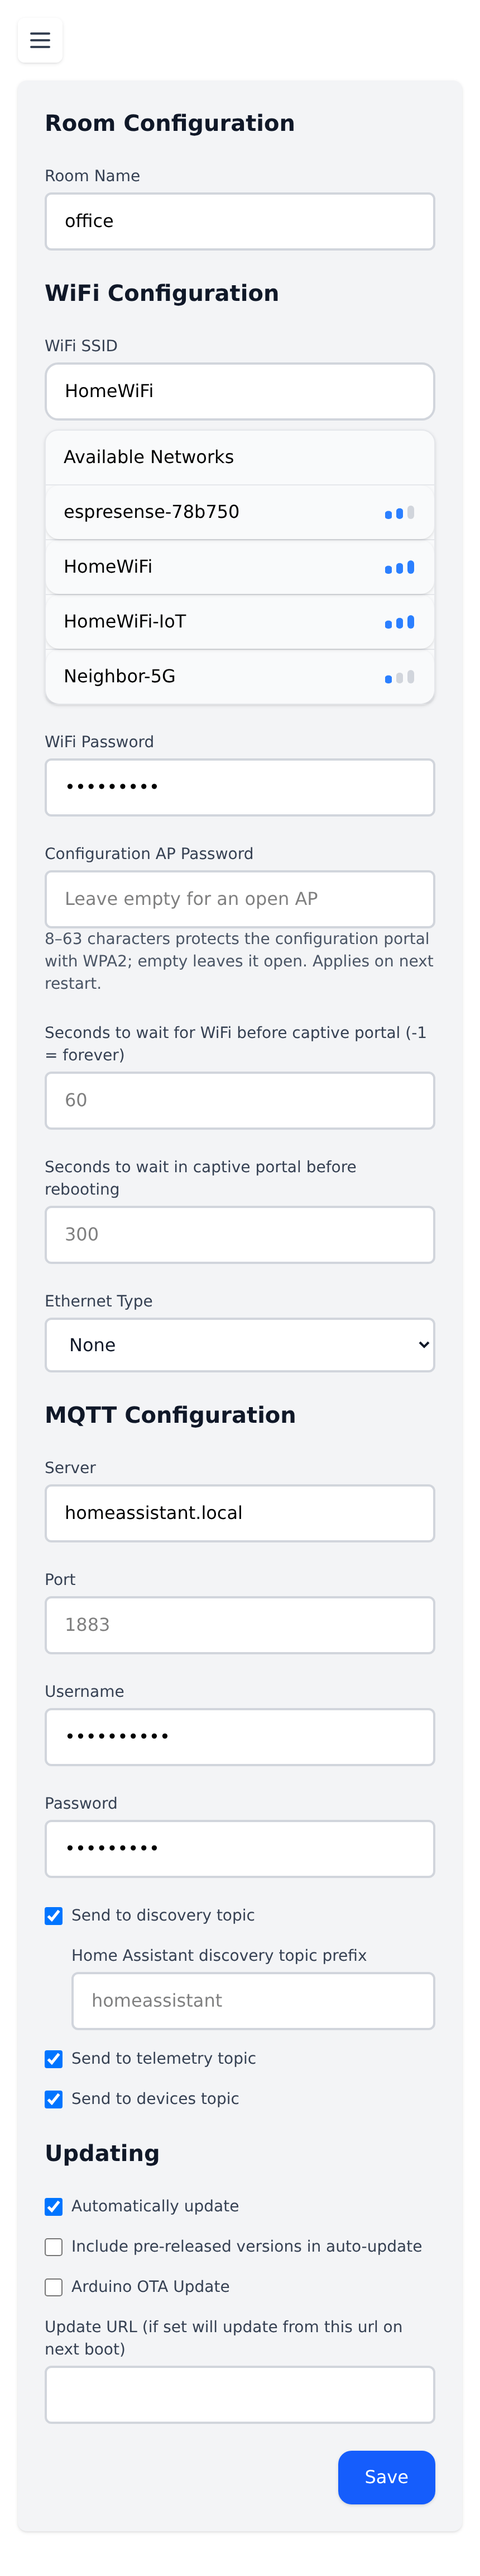
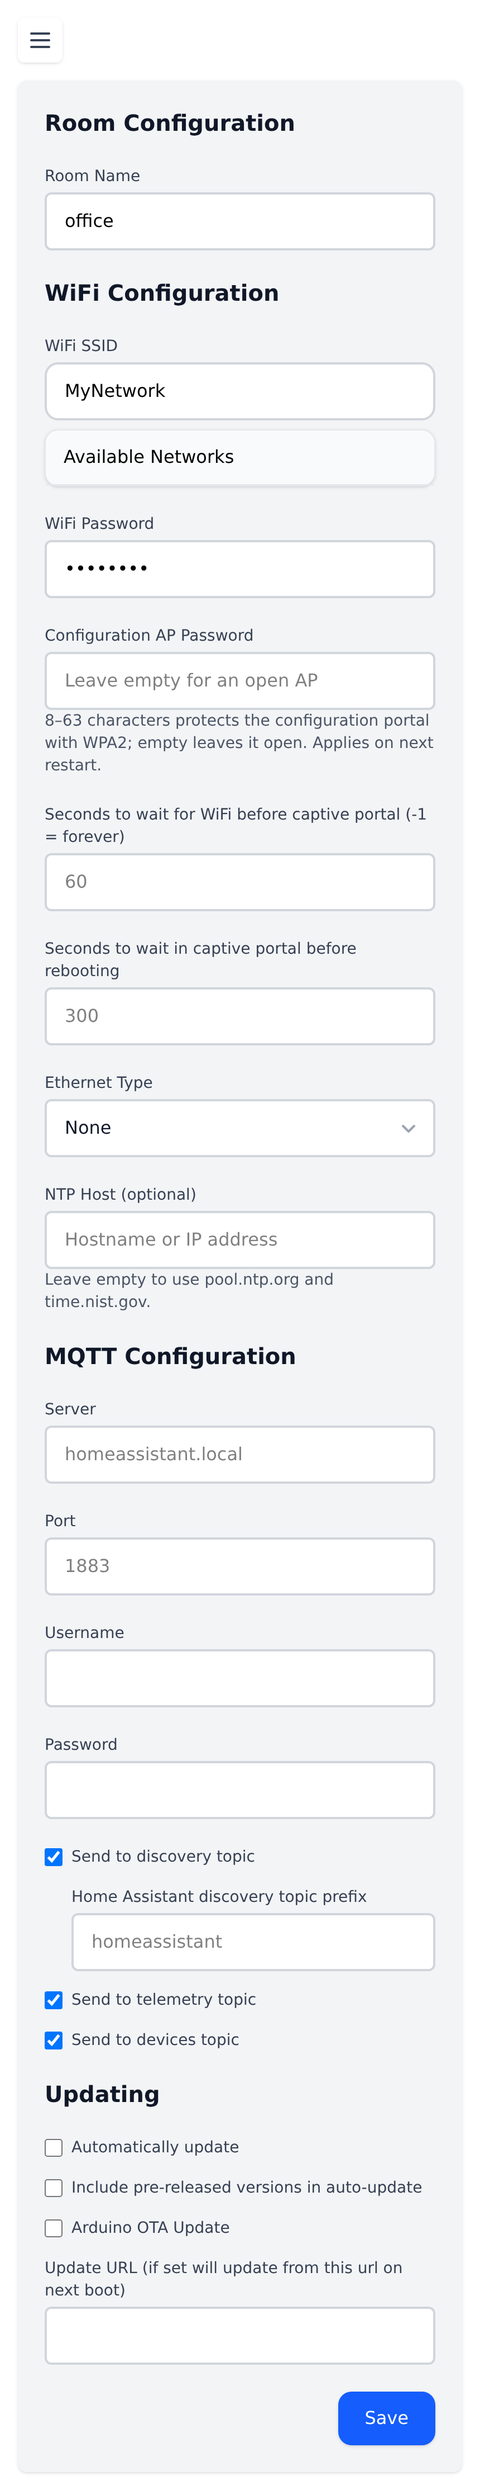
docs: refresh the hardware and network UI screenshots
The select chevron now sits in a fixed gutter for every select in the UI, so
every screenshot with a dropdown went stale; the hardware page also changed
more widely (fields align at the bottom, hints are placeholders or a short
note, the TSL2561 gain is a select, and the battery type reads "Li-ion").

Adds the capture script that package.json's `screenshots` target already
pointed at: it serves the firmware's dev UI, mocks the settings payload so a
bench node's leftovers cannot reach the docs, and grows the viewport to the
content because the app scrolls inside <main> rather than the document.

diff --git a/scripts/capture-screenshots.js b/scripts/capture-screenshots.js
@@ -1,0 +1,244 @@
+#!/usr/bin/env node
+/**
+ * Capture the device-UI screenshots used by the docs.
+ *
+ *   ESPRESENSE_DEVICE=192.168.129.243 npm run screenshots
+ *
+ * The UI is served by the firmware repo's dev server (`cd ui && npm run dev`), which proxies
+ * the API to a live node; this script starts it when it is not already running. Hardware settings
+ * are mocked, so a bench node's leftover configuration never ends up in the docs.
+ */
+const { spawn } = require('node:child_process');
+const fs = require('node:fs');
+const path = require('node:path');
+const { chromium } = require('playwright');
+
+const UI_REPO = process.env.ESPRESENSE_UI_REPO ?? path.resolve(__dirname, '../../ESPresense/ui');
+const BASE = process.env.ESPRESENSE_UI_URL ?? 'http://localhost:5199';
+const OUT = path.resolve(__dirname, '../public/images');
+const DEVICE = process.env.ESPRESENSE_DEVICE;
+// Phone width at 2x: what the docs show, and how the device UI is mostly used.
+const VIEWPORT = { width: 430, height: 900 };
+
+// Representative hardware settings for the docs: a node with a couple of sensors wired up.
+const hardware = {
+	values: {
+		leds: [{ type: 'pwm', pin: 2, control: 'status' }],
+		inputs: [{ name: 'Hallway PIR', role: 'motion', pin: 4, type: 'pullup', timeout: 5 }],
+		outputs: [],
+		board: 'Espressif ESP32-DevKitC',
+		dht11_pin: '-1',
+		dht22_pin: '15',
+		dhtTemp_offset: '0',
+		dhtHumidity_offset: '0',
+		I2C_Bus_1_SDA: '21',
+		I2C_Bus_1_SCL: '22',
+		I2C_Bus_2_SDA: '-1',
+		I2C_Bus_2_SCL: '-1',
+		I2CDebug: false,
+		AHTX0_I2c_Bus: '1',
+		AHTX0_I2c: '0x38',
+		BH1750_I2c_Bus: '1',
+		BH1750_I2c: '0x23',
+		BME280_I2c_Bus: '1',
+		BME280_I2c: '0x76',
+		BMP180_I2c_Bus: '1',
+		BMP180_I2c: '0x77',
+		BMP280_I2c_Bus: '1',
+		BMP280_I2c: '0x76',
+		SHT_I2c_Bus: '1',
+		TSL2561_I2c_Bus: '1',
+		TSL2561_I2c: '0x39',
+		TSL2561_I2c_Gain: 'auto',
+		SGP30_I2c_Bus: '1',
+		SGP30_I2c: '0x58',
+		SCD4x_I2c_Bus: '1',
+		SCD4x_I2c: '0x62',
+		HX711_sckPin: '-1',
+		HX711_doutPin: '-1',
+		ds18b20_pin: '-1',
+		dsTemp_offset: '0',
+		batt_pin: '-1',
+		batt_mult: '1',
+		batt_type: '0',
+		batt_axp192: false
+	},
+	defaults: {
+		leds: [{ type: 'pwm', pin: 2, count: 1, control: 'status' }],
+		inputs: [],
+		outputs: [],
+		I2C_Bus_1_SDA: '21',
+		I2C_Bus_1_SCL: '22',
+		dht11_pin: '-1',
+		dht22_pin: '-1',
+		batt_pin: '-1',
+		batt_mult: '1',
+		batt_type: '0',
+		AHTX0_I2c_Bus: '1',
+		BH1750_I2c_Bus: '1',
+		BME280_I2c_Bus: '1',
+		BMP180_I2c_Bus: '1',
+		BMP280_I2c_Bus: '1',
+		SHT_I2c_Bus: '1',
+		TSL2561_I2c_Bus: '1',
+		TSL2561_I2c_Gain: 'auto',
+		SGP30_I2c_Bus: '1',
+		SCD4x_I2c_Bus: '1',
+		HX711_sckPin: '-1',
+		HX711_doutPin: '-1'
+	},
+	// A plain ESP32's usable GPIOs (no flash/PSRAM pins); input-only ones are listed separately.
+	pins: {
+		usable: [2, 4, 5, 12, 13, 14, 15, 16, 17, 18, 19, 21, 22, 23, 25, 26, 27, 32, 33, 34, 35, 36, 39],
+		inputOnly: [34, 35, 36, 39]
+	}
+};
+
+// GPIOs a typical ESP32 node reports as usable.
+const pins = {
+	usable: [2, 4, 5, 12, 13, 14, 15, 16, 17, 18, 19, 21, 22, 23, 25, 26, 27, 32, 33, 34, 35, 36, 39],
+	inputOnly: [34, 35, 36, 39]
+};
+
+// Representative network settings: a node on a LAN with MQTT reported to Home Assistant.
+const network = {
+	values: {
+		room: 'office',
+		'wifi-ssid': 'MyNetwork',
+		'wifi-password': '********',
+		eth: '0',
+		discovery: true,
+		pub_tele: true,
+		pub_devices: true,
+		auto_update: false,
+		prerelease: false,
+		arduino_ota: false
+	},
+	defaults: {
+		room: 'node',
+		wifi_timeout: 60,
+		portal_timeout: 300,
+		eth: '0',
+		mqtt_host: 'homeassistant.local',
+		mqtt_port: 1883,
+		discovery: true,
+		discovery_prefix: 'homeassistant',
+		pub_tele: true,
+		pub_devices: true,
+		auto_update: false,
+		prerelease: false,
+		arduino_ota: false
+	},
+	pins
+};
+
+/**
+ * One entry per docs screenshot. `feed` maps a URL pattern to the JSON the page should see;
+ * anything not listed still proxies to the node (only /json is needed for the page chrome).
+ */
+const SHOTS = [
+	{ route: '/hardware', file: 'hardware_screen.png', feed: { '**/wifi/hardware*': hardware } },
+	{
+		route: '/network',
+		file: 'network_screen.png',
+		feed: { '**/wifi/main*': network, '**/wifi/scan*': { connected: true, networks: [] } }
+	}
+];
+
+async function waitForServer(url, timeoutMs = 90_000) {
+	const deadline = Date.now() + timeoutMs;
+	while (Date.now() < deadline) {
+		try {
+			const res = await fetch(url, { signal: AbortSignal.timeout(2000) });
+			if (res.ok) return true;
+		} catch {
+			/* not up yet */
+		}
+		await new Promise((r) => setTimeout(r, 500));
+	}
+	return false;
+}
+
+async function ensureDevServer() {
+	if (await waitForServer(BASE, 1500)) return null;
+	if (!DEVICE) {
+		throw new Error(
+			`No dev server at ${BASE}. Start one with \`cd ${UI_REPO} && ESPRESENSE_DEVICE=<node ip> npm run dev\`, ` +
+				'or set ESPRESENSE_DEVICE so this script can start it.'
+		);
+	}
+	const child = spawn('npm', ['run', 'dev', '--', '--port', new URL(BASE).port], {
+		cwd: UI_REPO,
+		env: { ...process.env, ESPRESENSE_DEVICE: DEVICE },
+		stdio: 'inherit'
+	});
+	if (!(await waitForServer(BASE))) {
+		child.kill();
+		throw new Error(`${UI_REPO} did not start within 90s`);
+	}
+	return child;
+}
+
+/** Route the endpoints a page reads to mock data, so the capture is stable and node-agnostic. */
+async function mockDevice(page, feed = {}) {
+	for (const [pattern, body] of Object.entries(feed)) {
+		await page.route(pattern, (route) =>
+			route.fulfill({ json: body, headers: { 'access-control-allow-origin': '*' } })
+		);
+	}
+	await page.route('**/json*', (route) =>
+		route.fulfill({ json: { room: 'office', firm: 'esp32', version: 'v4.0' } })
+	);
+	await page.route('**/ws*', (route) => route.abort());
+}
+
+/**
+ * The app scrolls inside <main>, not the document, so `fullPage` only ever sees one viewport.
+ * Grow the viewport to the content instead: that keeps the phone layout while capturing all of it.
+ */
+async function shoot(page, route, file) {
+	// Reset first: a previous shot left the viewport as tall as its content, which would make
+	// scrollHeight report that height instead of this page's.
+	await page.setViewportSize(VIEWPORT);
+	await page.goto(`${BASE}${route}`, { waitUntil: 'networkidle' });
+	await page.waitForSelector('main', { timeout: 15_000 }).catch(() => {});
+	// Let fonts settle and any enter transitions finish before the camera clicks.
+	await page.evaluate(() => document.fonts.ready);
+	await page.waitForTimeout(400);
+
+	// The app scrolls inside <main>; the document itself is only ever viewport-tall.
+	const contentHeight = await page.evaluate(() => {
+		const el = document.querySelector('main') ?? document.body;
+		return el.scrollHeight;
+	});
+	const viewport = page.viewportSize();
+	await page.setViewportSize({ width: viewport.width, height: Math.ceil(contentHeight) });	await page.waitForTimeout(200);
+
+	const target = path.join(OUT, file);
+	await page.screenshot({ path: target, fullPage: true });
+	console.log(`${file}  ${viewport.width}x${Math.ceil(contentHeight)}`);
+}
+
+(async () => {
+	const server = await ensureDevServer();
+	const browser = await chromium.launch();
+	try {
+		const context = await browser.newContext({
+			viewport: VIEWPORT,
+			deviceScaleFactor: 2,
+			colorScheme: 'light'
+		});
+		const page = await context.newPage();
+		for (const { route, file, feed } of SHOTS) {
+			await mockDevice(page, feed);
+			await shoot(page, route, file);
+			await page.unrouteAll({ behavior: 'ignoreErrors' });
+		}
+	} finally {
+		await browser.close();
+		server?.kill();
+	}
+})().catch((err) => {
+	console.error(err.message);
+	process.exit(1);
+});

diff --git a/README.md b/README.md
@@ -28,6 +28,19 @@ npm run preview    # serve the production build locally
 - `astro.config.mjs` — sidebar layout and URL redirects.
 - `public/images/` — committed images (screenshots, diagrams).
 
+## Screenshots
+
+The device-UI screenshots in `public/images/` come from the firmware's web UI, not from this site:
+
+```sh
+cd ../ESPresense/ui && npm run dev          # or let the capture script start it
+cd - && ESPRESENSE_DEVICE=<node ip> npm run screenshots
+```
+
+The script serves the UI from `../ESPresense/ui`, mocks `/wifi/hardware` so a bench node's
+leftover settings never land in the docs, and writes phone-width full-page captures. Point
+`ESPRESENSE_UI_REPO` elsewhere if the firmware repo is not a sibling directory.
+
 ## Contributing
 
 Read **[CONTRIBUTING-docs.md](./CONTRIBUTING-docs.md)** before opening a PR. It covers:
